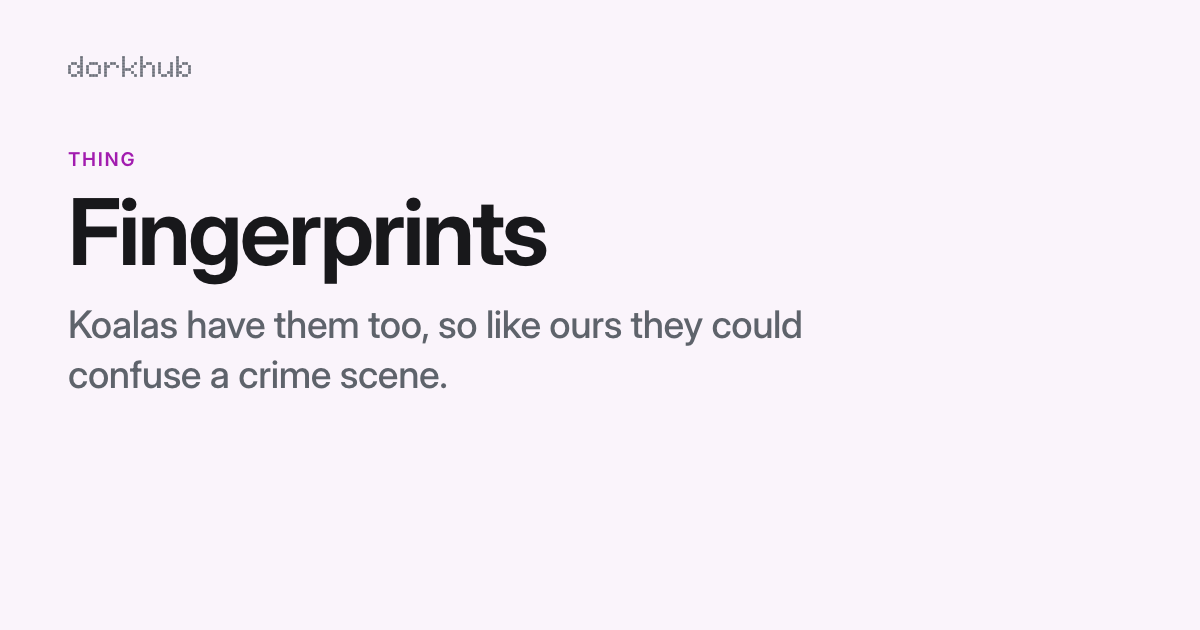
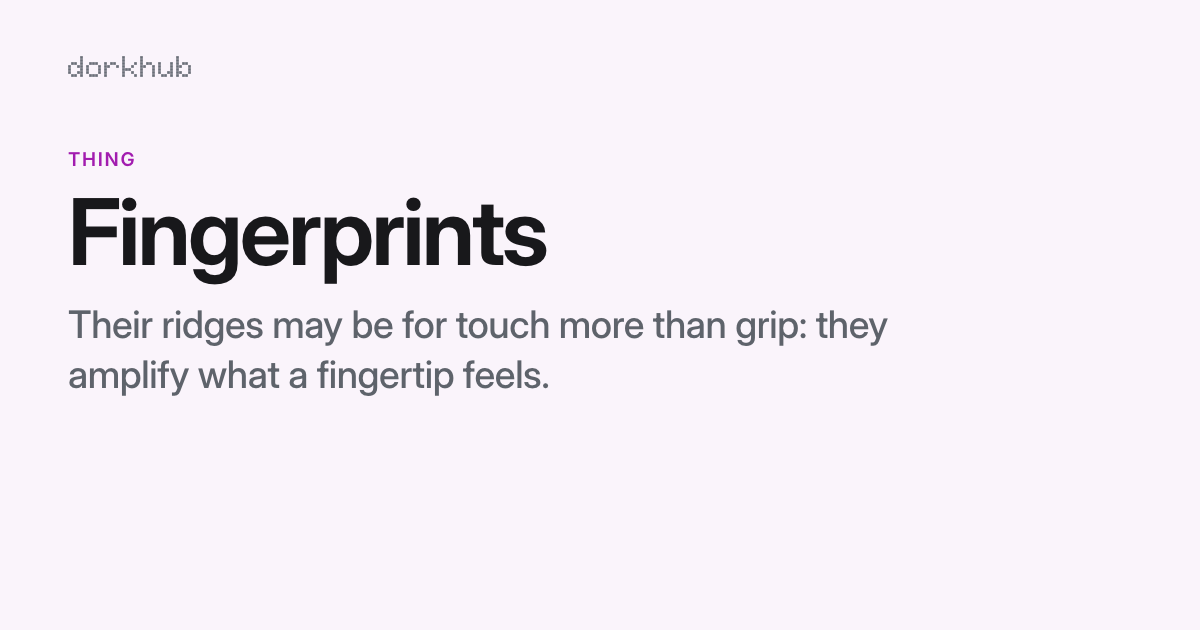
The front page's lines are about their own topic
Seven of the 33 lines described a neighbour, and the pages written to
bear them out opened on it (Time travel on GPS clocks). Each now carries
a fact about the topic itself, checked at its source: Time travel,
Magnets, Apollo 11, Fingerprints, Volcanoes, Origami and Pompeii.
Origami's card keeps Miura's fold, with a hook on the fold itself and no
satellite in its label. Their share pictures are remade.

Changed region(s): [[0.0617, 0.4825, 0.74, 0.5429], [0.0617, 0.573, 0.4625, 0.6333]]

diff --git a/lib/front.js b/lib/front.js
@@ -20,19 +20,19 @@ export const FRONT = [
   { t: 'Stonehenge', k: 'place', h: 'Its Altar Stone came from the north of Scotland, about 750 km away.', src: 'https://www.ucl.ac.uk/news/2024/aug/stonehenge-altar-stone-came-scotland-not-wales' },
   { t: 'Supernovas', k: 'phenomenon', h: 'In 1054 one shone in daylight for 23 days. Its wreck is the Crab Nebula.', src: 'https://en.wikipedia.org/wiki/SN_1054' },
   { t: 'Diamonds', k: 'thing', h: 'Most natural diamonds are between 1 and 3.5 billion years old.', src: 'https://en.wikipedia.org/wiki/Diamond' },
-  { t: 'Volcanoes', k: 'phenomenon', h: 'Krakatoa was heard 4,800 km away, and barometers caught its blast seven times.', src: 'https://en.wikipedia.org/wiki/1883_eruption_of_Krakatoa' },
+  { t: 'Volcanoes', k: 'phenomenon', h: 'Three-quarters of Earth’s magma comes out unseen, along ridges on the ocean floor.', src: 'https://en.wikipedia.org/wiki/Submarine_volcano' },
   { t: 'Coral reefs', k: 'place', h: 'Under 1% of the sea floor, home to an estimated quarter of all marine species.', src: 'https://floridakeys.noaa.gov/corals/biodiversity.html' },
   { t: 'Dreams', k: 'phenomenon', h: 'The longest dream of the night comes just before you wake.', src: 'https://en.wikipedia.org/wiki/Rapid_eye_movement_sleep' },
-  { t: 'Fingerprints', k: 'thing', h: 'Koalas have them too, so like ours they could confuse a crime scene.', src: 'https://en.wikipedia.org/wiki/Fingerprint' },
+  { t: 'Fingerprints', k: 'thing', h: 'Their ridges may be for touch more than grip: they amplify what a fingertip feels.', src: 'https://en.wikipedia.org/wiki/Fingerprint' },
   { t: 'Terracotta Army', k: 'work', h: 'Some 8,000 soldiers, found in 1974 by farmers digging a well.', src: 'https://en.wikipedia.org/wiki/Terracotta_Army' },
   { t: 'Atlantis', k: 'mystery', h: 'Every telling of it goes back to two dialogues Plato wrote around 360 BC.', src: 'https://en.wikipedia.org/wiki/Atlantis' },
-  { t: 'Magnets', k: 'thing', h: 'A strong enough magnet can float a living frog. It has been done, at 16 tesla.', src: 'https://en.wikipedia.org/wiki/Magnetic_levitation' },
+  { t: 'Magnets', k: 'thing', h: 'Cut a magnet in half and you get two magnets, never a lone pole.', src: 'https://en.wikipedia.org/wiki/Magnetic_monopole' },
   { t: 'Infinity', k: 'concept', h: 'Some infinities are bigger than others.', src: 'https://en.wikipedia.org/wiki/Cantor%27s_diagonal_argument' },
-  { t: 'Time travel', k: 'idea', h: 'GPS satellite clocks gain 38 microseconds a day, just as relativity says.', src: 'https://en.wikipedia.org/wiki/Error_analysis_for_the_Global_Positioning_System' },
+  { t: 'Time travel', k: 'idea', h: 'Travel into the future is real: a year in orbit leaves you a few milliseconds younger.', src: 'https://en.wikipedia.org/wiki/Time_travel' },
   { t: 'Ice ages', k: 'era', h: 'We are living in one: there is still ice at both poles.', src: 'https://en.wikipedia.org/wiki/Ice_age' },
   { t: 'Fireworks', k: 'thing', h: 'Every colour is a metal, and blue is the hardest to make.', src: 'https://www.aps.org/apsnews/2026/06/the-showy-science-of-fireworks' },
   { t: 'Rubik’s Cube', k: 'thing', h: '43 quintillion positions, and every one can be solved in 20 moves.', src: 'https://www.cube20.org/' },
-  { t: 'Pompeii', k: 'place', h: 'The textbook date of the eruption, 24 August 79, may be months off.', src: 'https://en.wikipedia.org/wiki/Eruption_of_Mount_Vesuvius_in_79_AD' },
+  { t: 'Pompeii', k: 'place', h: 'Two-thirds of the town has been dug out of the ash. The rest is still buried.', src: 'https://en.wikipedia.org/wiki/Pompeii' },
   { t: 'Mona Lisa', k: 'work', h: 'Its fame took off when it was stolen from the Louvre in 1911.', src: 'https://en.wikipedia.org/wiki/Mona_Lisa' },
   { t: 'Lightning', k: 'phenomenon', h: 'A bolt heats the air to 30,000 °C, five times hotter than the Sun’s surface.', src: 'https://www.weather.gov/safety/lightning-science-thunder' },
   { t: 'Octopuses', k: 'creature', h: 'Two-thirds of an octopus’s neurons are in its arms.', src: 'https://www.sciencealert.com/here-s-how-octopus-arms-make-decisions-without-input-from-the-brain' },
@@ -40,10 +40,10 @@ export const FRONT = [
   { t: 'Giant squid', k: 'creature', h: 'Its eyes reach 27 cm across, as big as any animal’s.', src: 'https://en.wikipedia.org/wiki/Giant_squid' },
   { t: 'DNA', k: 'thing', h: 'Unwound, the DNA in one of your cells would stretch about 2 metres.', src: 'https://en.wikipedia.org/wiki/DNA' },
   { t: 'Antarctica', k: 'place', h: 'If all its ice melted, the seas would rise about 58 metres.', src: 'https://en.wikipedia.org/wiki/Antarctic_ice_sheet' },
-  { t: 'Origami', k: 'technique', h: 'A fold made for spacecraft opens a whole solar panel in one pull.', src: 'https://en.wikipedia.org/wiki/Miura_fold' },
+  { t: 'Origami', k: 'technique', h: 'A big enough sheet can be folded into any flat-sided shape, without a single cut.', src: 'https://en.wikipedia.org/wiki/Mathematics_of_paper_folding' },
   { t: 'Boomerangs', k: 'thing', h: 'Most boomerangs were never meant to come back.', src: 'https://en.wikipedia.org/wiki/Boomerang' },
   { t: 'Enigma machine', k: 'thing', h: 'It never turned a letter into itself, and that flaw helped break it.', src: 'https://en.wikipedia.org/wiki/Cryptanalysis_of_the_Enigma' },
-  { t: 'Apollo 11', k: 'event', h: 'Its computer had 2,048 words of memory, and flashed alarms minutes before landing.', src: 'https://en.wikipedia.org/wiki/Apollo_Guidance_Computer' },
+  { t: 'Apollo 11', k: 'event', h: 'Armstrong steered past a boulder field and landed with under a minute of fuel to spare.', src: 'https://en.wikipedia.org/wiki/Apollo_11' },
   { t: 'Holograms', k: 'thing', h: 'Cut one in half and each piece still shows the whole scene.', src: 'https://en.wikipedia.org/wiki/Holography' },
   { t: 'Bioluminescence', k: 'phenomenon', h: 'Most animals in the deep ocean make their own light.', src: 'https://en.wikipedia.org/wiki/Bioluminescence' },
 ];
@@ -539,7 +539,7 @@ function origamiPlate(v) {
   b += `<path class="mi-shadow" filter="url(#mi-blur-${v})"/><path class="mi-shadow mi-near" filter="url(#mi-near-${v})"/><g class="mi-sheet" data-faces="${faces.length}"></g><path class="mi-ridge"/>`;
   b += `<circle class="mi-hand" cx="${hand[0]}" cy="${hand[1]}" r="6"/>`;
   b += T(18, C.H - 16, 'MIURA FOLD', 'mi-l');
-  return svg(C.W, C.H, 'A sheet of paper in Miura’s fold, a zigzag of parallelograms that opens and closes in a single motion, as it opened a satellite’s solar array: half open, inside the outline of the whole sheet', b, `vz-${v} mi`);
+  return svg(C.W, C.H, 'A sheet of paper in Miura’s fold, a zigzag of parallelograms that opens and closes in a single motion: half open, inside the outline of the whole sheet', b, `vz-${v} mi`);
 }
 const origami = () => origamiPlate('w') + origamiPlate('n');
 
@@ -747,7 +747,7 @@ function enigmaBoard() {
 export const CARDS = [
   { t: 'Black holes', size: 'hero', night: true, beat: 1700, hook: 'Light bends so far round one that you see the far side of its disk, over the top.', art: blackHoles, src: ['https://en.wikipedia.org/wiki/Black_hole', 'https://blogs.nature.com/aviewfromthebridge/2017/03/'] },
   { t: 'Northern lights', size: 'tall', tab: 'sq', night: true, beat: 900, art: aurora, credit: 'G. Edward Johnson · CC BY 4.0', src: ['https://science.nasa.gov/earth/earth-observatory/auroras-dancing-in-the-night', 'https://en.wikipedia.org/wiki/Aurora', 'https://commons.wikimedia.org/wiki/File:2024-10-10_Red_and_Green_Aurora_Borealis_over_Luray_VA_22-08-35_1.jpg'] },
-  { t: 'Origami', size: 'big', fx: 'origami', beat: 1500, art: origami, src: ['https://en.wikipedia.org/wiki/Miura_fold'] },
+  { t: 'Origami', size: 'big', fx: 'origami', beat: 1500, hook: 'Miura’s fold opens a whole sheet with one pull on its ends, and shuts with one push.', art: origami, src: ['https://en.wikipedia.org/wiki/Miura_fold'] },
   { t: 'Atlantis', size: 'sq', beat: 1700, hook: 'Plato gave its rings in stadia: an island 5 across, then rings of sea and land 1, 2 and 3 wide.', art: atlantis, src: ['https://www.gutenberg.org/files/1571/1571-h/1571-h.htm', 'https://en.wikipedia.org/wiki/Atlantis'] },
   { t: 'Venus flytraps', size: 'sq', tab: 'big', fx: 'flytrap', beat: 1600, art: flytrap, src: ['https://en.wikipedia.org/wiki/Venus_flytrap', 'https://doi.org/10.1016/j.cub.2015.11.057'] },
   { t: 'Magnets', size: 'sq', fx: 'magnets', beat: 1400, art: magnets, src: ['https://en.wikipedia.org/wiki/Magnetic_field', 'https://en.wikipedia.org/wiki/Iron_filings'] },

diff --git a/docs/decisions.md b/docs/decisions.md
@@ -491,3 +491,7 @@ One line each, newest last. Why, not just what.
     the story doesn't reach and never adds a sentence only to fit one in, as the single pass always said.
   - **Pages it wrote are kept under their own version** (`SPLIT_VERSION`), so pages already written in one pass are
     written again as readers reach them. Readers' keys and the mock still write in one pass.
+- 2026-11-17 · **The front page's lines are about their own topic, not a neighbour's** (Will: some cards "try to visualize a neighbor concept too far away from the title topic it's meant to represent... I was clicking into a time travel topic and learning about phone GPS immediately, rather than that being a potentially neat or engaging point lower in the article"). An audit of the 33 topics' lines and the 13 cards: 26 lines and 11 cards show their topic itself. Seven lines showed a neighbour, and the stand-in covers written to bear them out opened on it (Time travel on GPS, Volcanoes on Krakatoa's sound, Apollo 11 on its computer); Sonnet's covers (#55) open on the topic but still carry the claim into their decks.
+  - **The seven, now on their topic**, each checked at its source: Time travel (GPS satellites' clocks, now: travel into the future is real, a year in orbit leaves you a few milliseconds younger); Magnets (a frog floated at 16 T, a neighbour's diamagnetism beside a card that draws the bar's own field; now: cut one in half and you get two magnets, never a lone pole); Apollo 11 (its guidance computer; now: the landing past a boulder field with under a minute of fuel to spare); Fingerprints (koalas and crime scenes; now: the ridges may be for touch more than grip); Volcanoes (one eruption's sound and pressure wave; now: three-quarters of Earth's magma comes out unseen, along the ocean ridges); Origami (a spacecraft's solar panel; now: a big enough sheet folds into any flat-sided shape without a cut, and its card keeps Miura's fold, with a hook on the fold itself and no satellite in its label); Pompeii (the dating of the eruption; now: two-thirds of the town dug out of the ash, the rest still buried).
+  - **Pompeii's card drew the eruption, not the town**: Vesuvius's column as Pliny saw it from Misenum, 29 km away, an umbrella pine the biggest thing on it and the town a small label. Proposed, as a mock: the walled town as an archaeologist's plan from OpenStreetMap's survey of the ruins, every excavated wall in ink and the part still buried left as ash (30% of the circuit by the survey, a third by Wikipedia). Its drawing and hook stay until Will picks.
+  - Their share pictures were remade (`scripts/share.mjs`). The covers whose claims changed are rewritten by batch only on Will's go in chat, after #55 (seven pages, about $0.08 on Sonnet 5.5); Pompeii's waits for its drawing.
